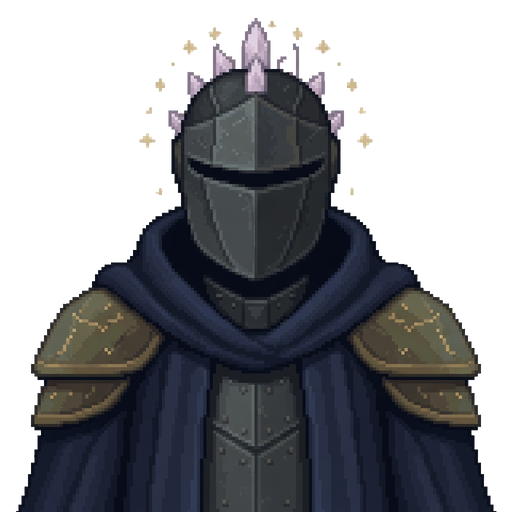
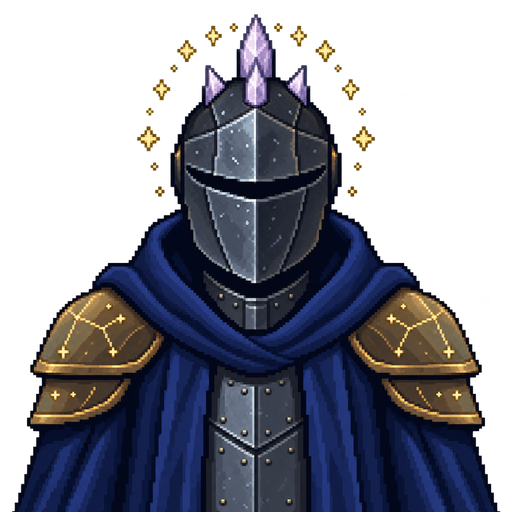
assets(realm): the plume knight and the crusader take their seats
Kimi's seat goes back to the graphite horsehair-plume knight and
Nemotron's to the flat-top copper crusader, the user's favourites from
the cast proposal; each model named its knight in its own words. Their
round-table drafts join the chapel and smithy. Grok's self-portrait is
redrawn by GPT, richer, keeping every element Grok chose.

Changed region(s): [[0.0312, 0.0312, 0.9688, 1.0]]

diff --git a/cockpit/assets/realm/avatars/README.md b/cockpit/assets/realm/avatars/README.md
@@ -23,8 +23,10 @@ muted–vivid), one model at a time, each seeing the figures already chosen.
 - `roster.json`: every seat and inhabitant with its model, its own words
   (figure, title, look, why), where it came from, and file hashes.
 
-Sol, Luna and Grok drew their own seats with their own image generators;
-their prompts are in the roster. Every other figure has a `render/` (Qwen-Image 2.1, transparent, 512px) and a
+Sol and Luna drew their own seats with their own image generators; Grok
+drew its own and GPT redrew it richer. Kimi's plume knight and Nemotron's
+flat-top crusader are the user's favourites from the cast proposal, named
+by the models themselves. Prompts and origins are in the roster. Every other figure has a `render/` (Qwen-Image 2.1, transparent, 512px) and a
 `sprite/` (96px, 24 colours, hard alpha, drawn at 2× in a 192px frame). The
 darker twins from the first poll are in `../doppelgangers/`. Nothing in the
 cockpit reads this directory yet: the Round Table seats become eight-pose
